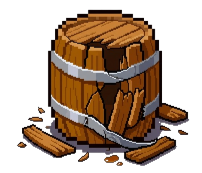
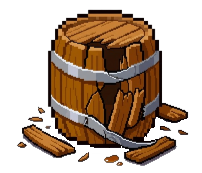
è fighissimo, quando rompo il barile spunta l'immagine del barile rotto, è davvero molto bello

Changed region(s): [[0.3267, 0.8092, 0.6535, 0.896], [0.7129, 0.6647, 0.9505, 0.8382], [0.2376, 0.6936, 0.3267, 0.8092]]

diff --git a/game_project.py b/game_project.py
@@ -185,9 +185,9 @@ class Gioco(arcade.View):
                 muri.vita -= self.p1.danno
                 muri.preso_danno = True
                 print(muri.vita)
-                if muri.vita <= 0:
+                if muri.vita <= 0.0:
                     self.punteggio += muri.punteggio
-                    muri.kill()
+                    muri.texture = self.muri.barile_rotto
 
             elif self.p1.attack_on == False and muri not in self.muri.scene["Walls"] and muri.vita > 0 and muri.preso_danno == True:
                 muri.preso_danno = False
@@ -310,7 +310,7 @@ class Gioco(arcade.View):
 
         self.rompo_oggetti(delta_time)
 
-        if self.punteggio >= 600:
+        if self.punteggio >= 700:
             self.clear()
             vittoria = WinView()
             self.window.show_view(vittoria)

diff --git a/muri.py b/muri.py
@@ -8,6 +8,7 @@ class Muri:
     def __init__(self, scene):
         
         self.scene = scene
+        self.barile_rotto = arcade.load_texture("./assets/barile_rotto.png")
         self.crea_muri()
         
     def crea_muri(self):
@@ -34,7 +35,7 @@ class Muri:
 
         # Terreno
         for x in range(-1000, 10000, 1000):
-            terreno = arcade.Sprite("assets/Wood/Background layers/sfondo10.png")
+            terreno = arcade.Sprite("./assets/Wood/Background layers/sfondo10.png")
             terreno.center_x = x
             terreno.center_y = 665
             terreno.scale = 1.8
